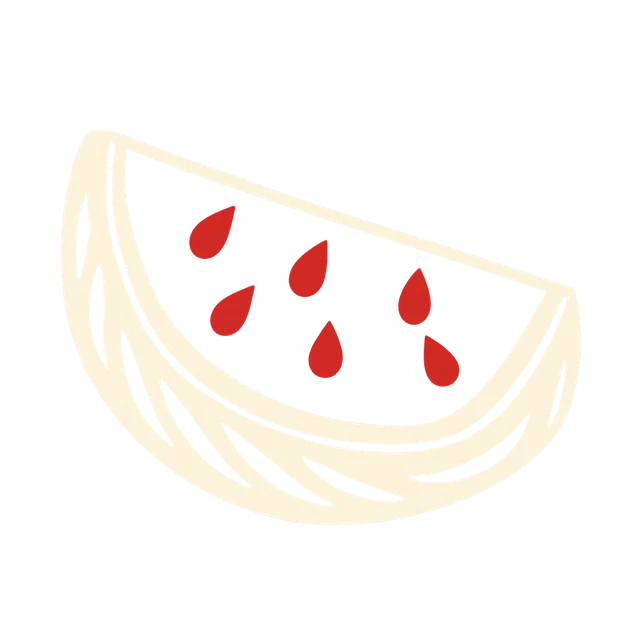
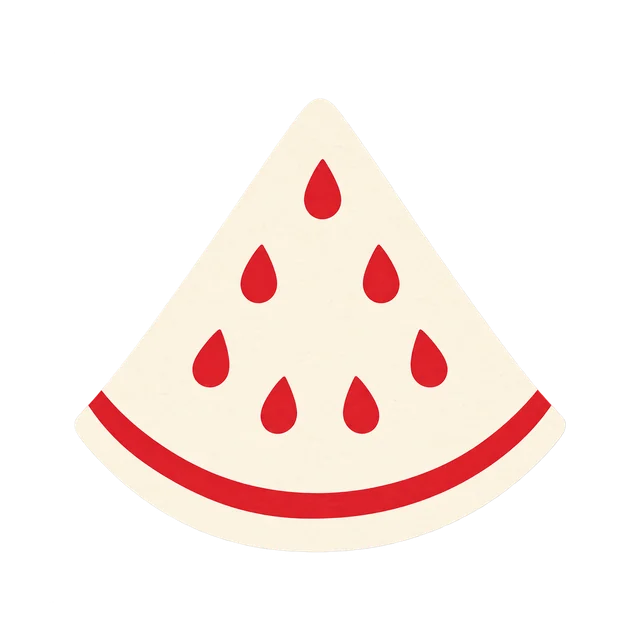
Complete the 54-card illustrated deck
Add the remaining card face artwork and refresh the sandia illustration,
plus update the docs to reflect the full set.

Changed region(s): [[0.0938, 0.1562, 0.9062, 0.875]]

diff --git a/docs/card-art.md b/docs/card-art.md
@@ -1,6 +1,6 @@
 # Card illustrations
 
-The illustrations in `public/cards/` were produced one by one from text-to-image
+The 54 illustrations in `public/cards/` were produced one by one from text-to-image
 prompts. The complete prompts and card-to-file mapping are in
 [`card-art-prompts.json`](./card-art-prompts.json).
 
@@ -14,5 +14,5 @@ request fails. All WebP assets are included in the service worker's precache so
 the complete deck remains available offline after installation.
 
 To replace an illustration, reuse its recorded prompt, review the output against
-the other cards, and export a WebP while preserving transparency. Keep filenames aligned with the `icon` values in
-`src/data/cards.ts`.
+the other cards, and export a WebP while preserving transparency. Keep filenames
+aligned with the `icon` values in `src/data/cards.ts`.
